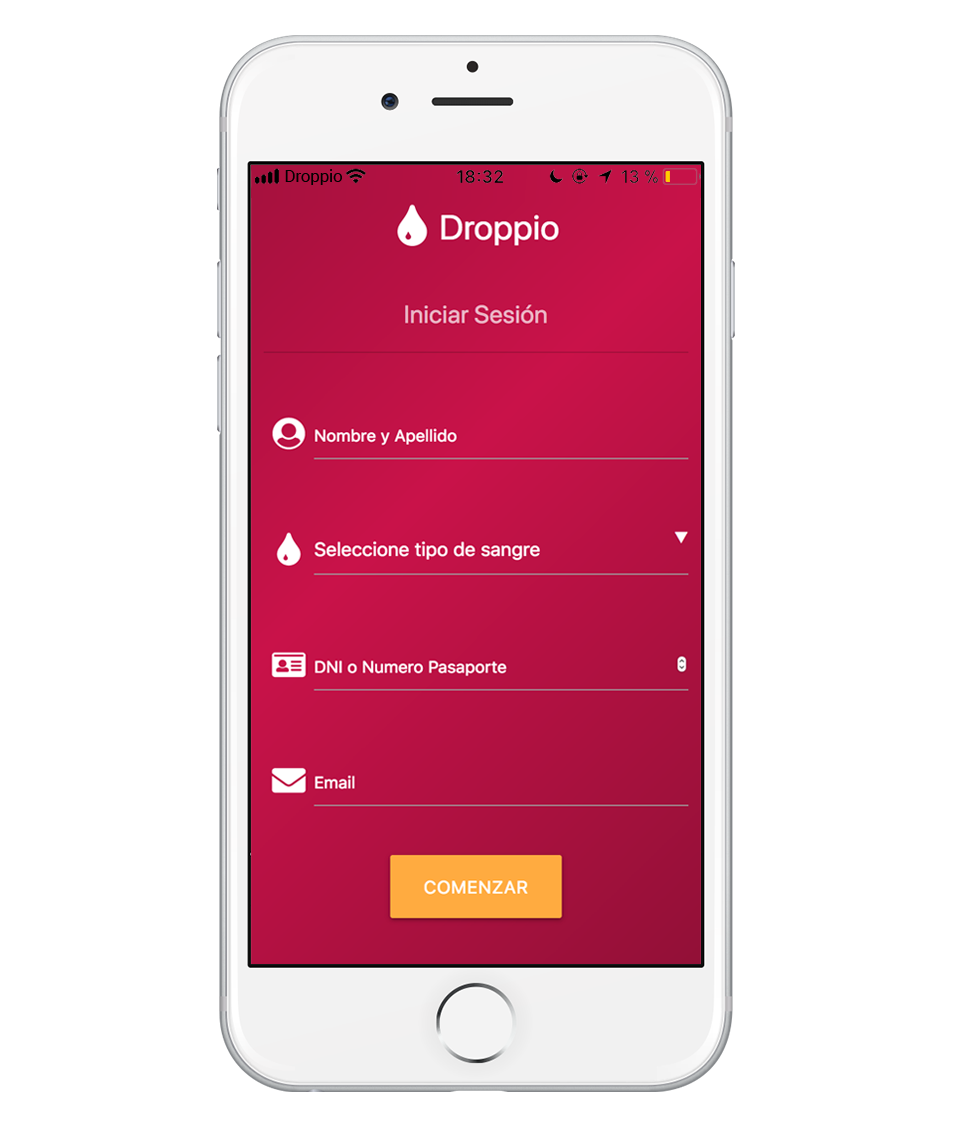
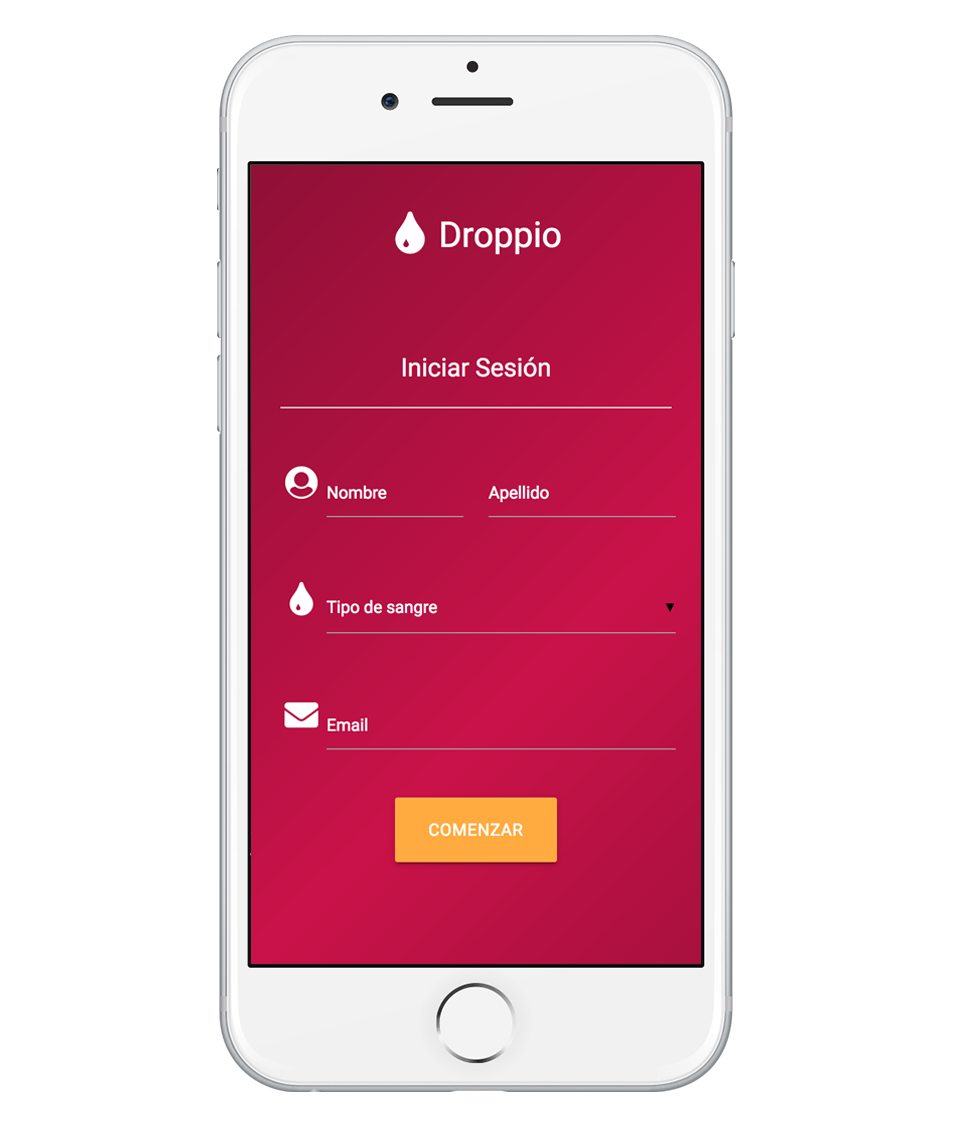
Some bugs Fixed

diff --git a/css/droppio.css b/css/droppio.css
@@ -1,3 +1,13 @@
+/* General Info about Materialize.
+Normal:
+Buttons Color Class: #FFAB40 orange accent-2
+
+Secundary:
+
+Contrasts:
+Buttons Color Class: #21ebad
+*/
+
 /* inputs fields */
 
     /* Textarea */
@@ -8,9 +18,9 @@
     .input-field label {
      color: #fff !important;
     }
-    .input-field svg.active {
+    /*.input-field svg.active {
      color: #21ebad !important;
-    }
+    }*/
     /* label focus color */
     .input-field input[type=text]:focus + label {
      color: #fff !important;
@@ -51,7 +61,8 @@
     font-size: 1px;
     color: rgba(0, 0, 0, 0);
     line-height: 1px;
-    background-color: rgba(33,235,173,0.85);
+    /*background-color: rgba(33,235,173,0.85); jpb */
+    background-color: rgba(255, 255, 255, 0.95);
     margin: auto !important;
     }
     .titleTransparent {
@@ -65,18 +76,23 @@
       margin-left: 0.5rem;
     }
 
+    .datepicker-date-display {
+      background-color: #c91249;
+    }
+    .datepicker-calendar-container {
+      color: rgba(0, 0, 0, 0.4);
+    }
+
 /* Buttons */
 
-    .droppioBtn {
-      background-color: #45ceee !important;
-      height: 40px;
-      width: 150px;
+    .btn, .btn-large {
+      /*background-color: #45ceee !important;*/
+      background-color: #FFAB40 !important;
     }
 
     .droppioBtnFat {
-      background-color: #45ceee !important;
-      height: 55px;
-      width: 150px;
+      /*background-color: #45ceee !important;*/
+      background-color: #FFAB40 !important;
     }
 /* Icons */
 
@@ -140,7 +156,8 @@
     .droppioCardButton{
 
       font-size:1.25em;
-      color: #45ceee !important;
+      /*color: #45ceee !important;*/
+      background-color: #FFAB40 !important;
     }
 
     .droppioSlider{
@@ -162,7 +179,7 @@
     	width: 100wh;
     	height: 90vh;
     	color: #fff;
-    	background: linear-gradient(-45deg, #eb215f, #c81349, #990e38, #820c2f);
+    	background: linear-gradient(-45deg, #550e23, #c91249, #550e23, #c91249);
     	background-size: 2000px 2000px;
     	-webkit-animation: Gradient 15s ease infinite;
     	-moz-animation: Gradient 15s ease infinite;

diff --git a/html/profile.html b/html/profile.html
@@ -8,7 +8,7 @@
   <meta name="mobile-web-app-capable" content="yes">
   <link rel="manifest" href="../json/manifest.json">
   <!-- Compiled and minified CSS -->
-  <link rel="stylesheet" href="https://cdnjs.cloudflare.com/ajax/libs/materialize/0.100.2/css/materialize.min.css">
+  <link rel="stylesheet" href="https://cdnjs.cloudflare.com/ajax/libs/materialize/1.0.0-alpha.4/css/materialize.min.css">
   <link rel="stylesheet" href="../css/droppio.css">
   <script defer src="https://use.fontawesome.com/releases/v5.0.7/js/all.js"></script>
   <link rel="icon" href="../img/tint.png" type="image/png">
@@ -78,13 +78,8 @@
             <label for="name">Nombre</label>
           </div>
           <div class="input-field col s6 m6 l6">
-<<<<<<< HEAD
-            <input type="text" id="lastname" tabindex="2" class="validate" required maxlength="30">
-            <label for="surname">Apellido</label>
-=======
             <input type="text" id="lastname" class="validate" required>
             <label for="lastname">Apellido</label>
->>>>>>> 165ef262c8a4078be79e80885d63b55ffe1ead6e
           </div>
         </div>
         <!-- Blood Input -->
@@ -242,21 +237,13 @@
 
 
 <!-- General scripts -->
-<script type="text/javascript" src="../js/jquery.min.js"></script>
-<script src="https://cdnjs.cloudflare.com/ajax/libs/materialize/1.0.0-beta/js/materialize.min.js"></script>
 <script src="https://code.jquery.com/jquery-3.2.1.min.js"></script>
-<<<<<<< HEAD
 <script src="https://cdnjs.cloudflare.com/ajax/libs/materialize/1.0.0-alpha.4/js/materialize.min.js"></script>
-=======
-
-<script src="../js/materialize.min.js"></script>
-
->>>>>>> 165ef262c8a4078be79e80885d63b55ffe1ead6e
 <script src="../js/pouchdb.min.js"></script>
 <script type="text/javascript">
   var xsrf_token = "{{ handler.xsrf_token }}";
 </script>
-<script type="text/javascript" src="../js/droppioProfile.js"></script>
+<script type="text/javascript" src="../js/profile/droppioProfile.js"></script>
 
 
 </html>

diff --git a/html/campaign.html b/html/campaign.html
@@ -153,12 +153,12 @@
 
 <!-- General scripts -->
 <script type="text/javascript" src="../js/jquery.min.js"></script>
-<script src="https://cdnjs.cloudflare.com/ajax/libs/materialize/1.0.0-beta/js/materialize.min.js"></script>
+<script src="https://cdnjs.cloudflare.com/ajax/libs/materialize/1.0.0-alpha.4/js/materialize.min.js"></script>
 <script src="../js/pouchdb.min.js"></script>
 <script type="text/javascript">
   var xsrf_token = "{{ handler.xsrf_token }}";
 </script>
-<script type="text/javascript" src="../js/droppioCampaign.js"></script>
+<script type="text/javascript" src="../js/campaign/droppioCampaign.js"></script>
 
 
 

diff --git a/html/website.html b/html/website.html
@@ -56,7 +56,7 @@
             <div class="card white lighten-1">
               <div class="card-content grey-text">
                 <div class="countdown">
-                  <span class="card-title black-text">Tiempo para el primer lanzamiento</span>
+                  <span class="card-title black-text">Tiempo para el lanzamiento de Droppio</span>
                   <ul class="center">
                     <li><span id="days"></span>días</li>
                     <li><span id="hours"></span>Horas</li>

diff --git a/js/profile/droppioProfile.js b/js/profile/droppioProfile.js
@@ -9,9 +9,11 @@ $(document).ready(function() {
     weekdaysShort: ['Dom', 'Lun', 'Mar', 'Mie', 'Jue', 'Vie', 'Sab'],
     weekdaysAbbrev: ['D', 'L', 'M', 'M', 'J', 'V', 'S'],
     maxYear: 2002,
-    yearRange: 80,
-    clear: 'Borrar',
-    done: 'OK',
+    yearRange: 65,
+    done: 'Listo',
+    today: false,
+    setDefaultDate: true,
+    defaultDate:  (1990, 0, 1),
   });
 
   //Init pouchDB
